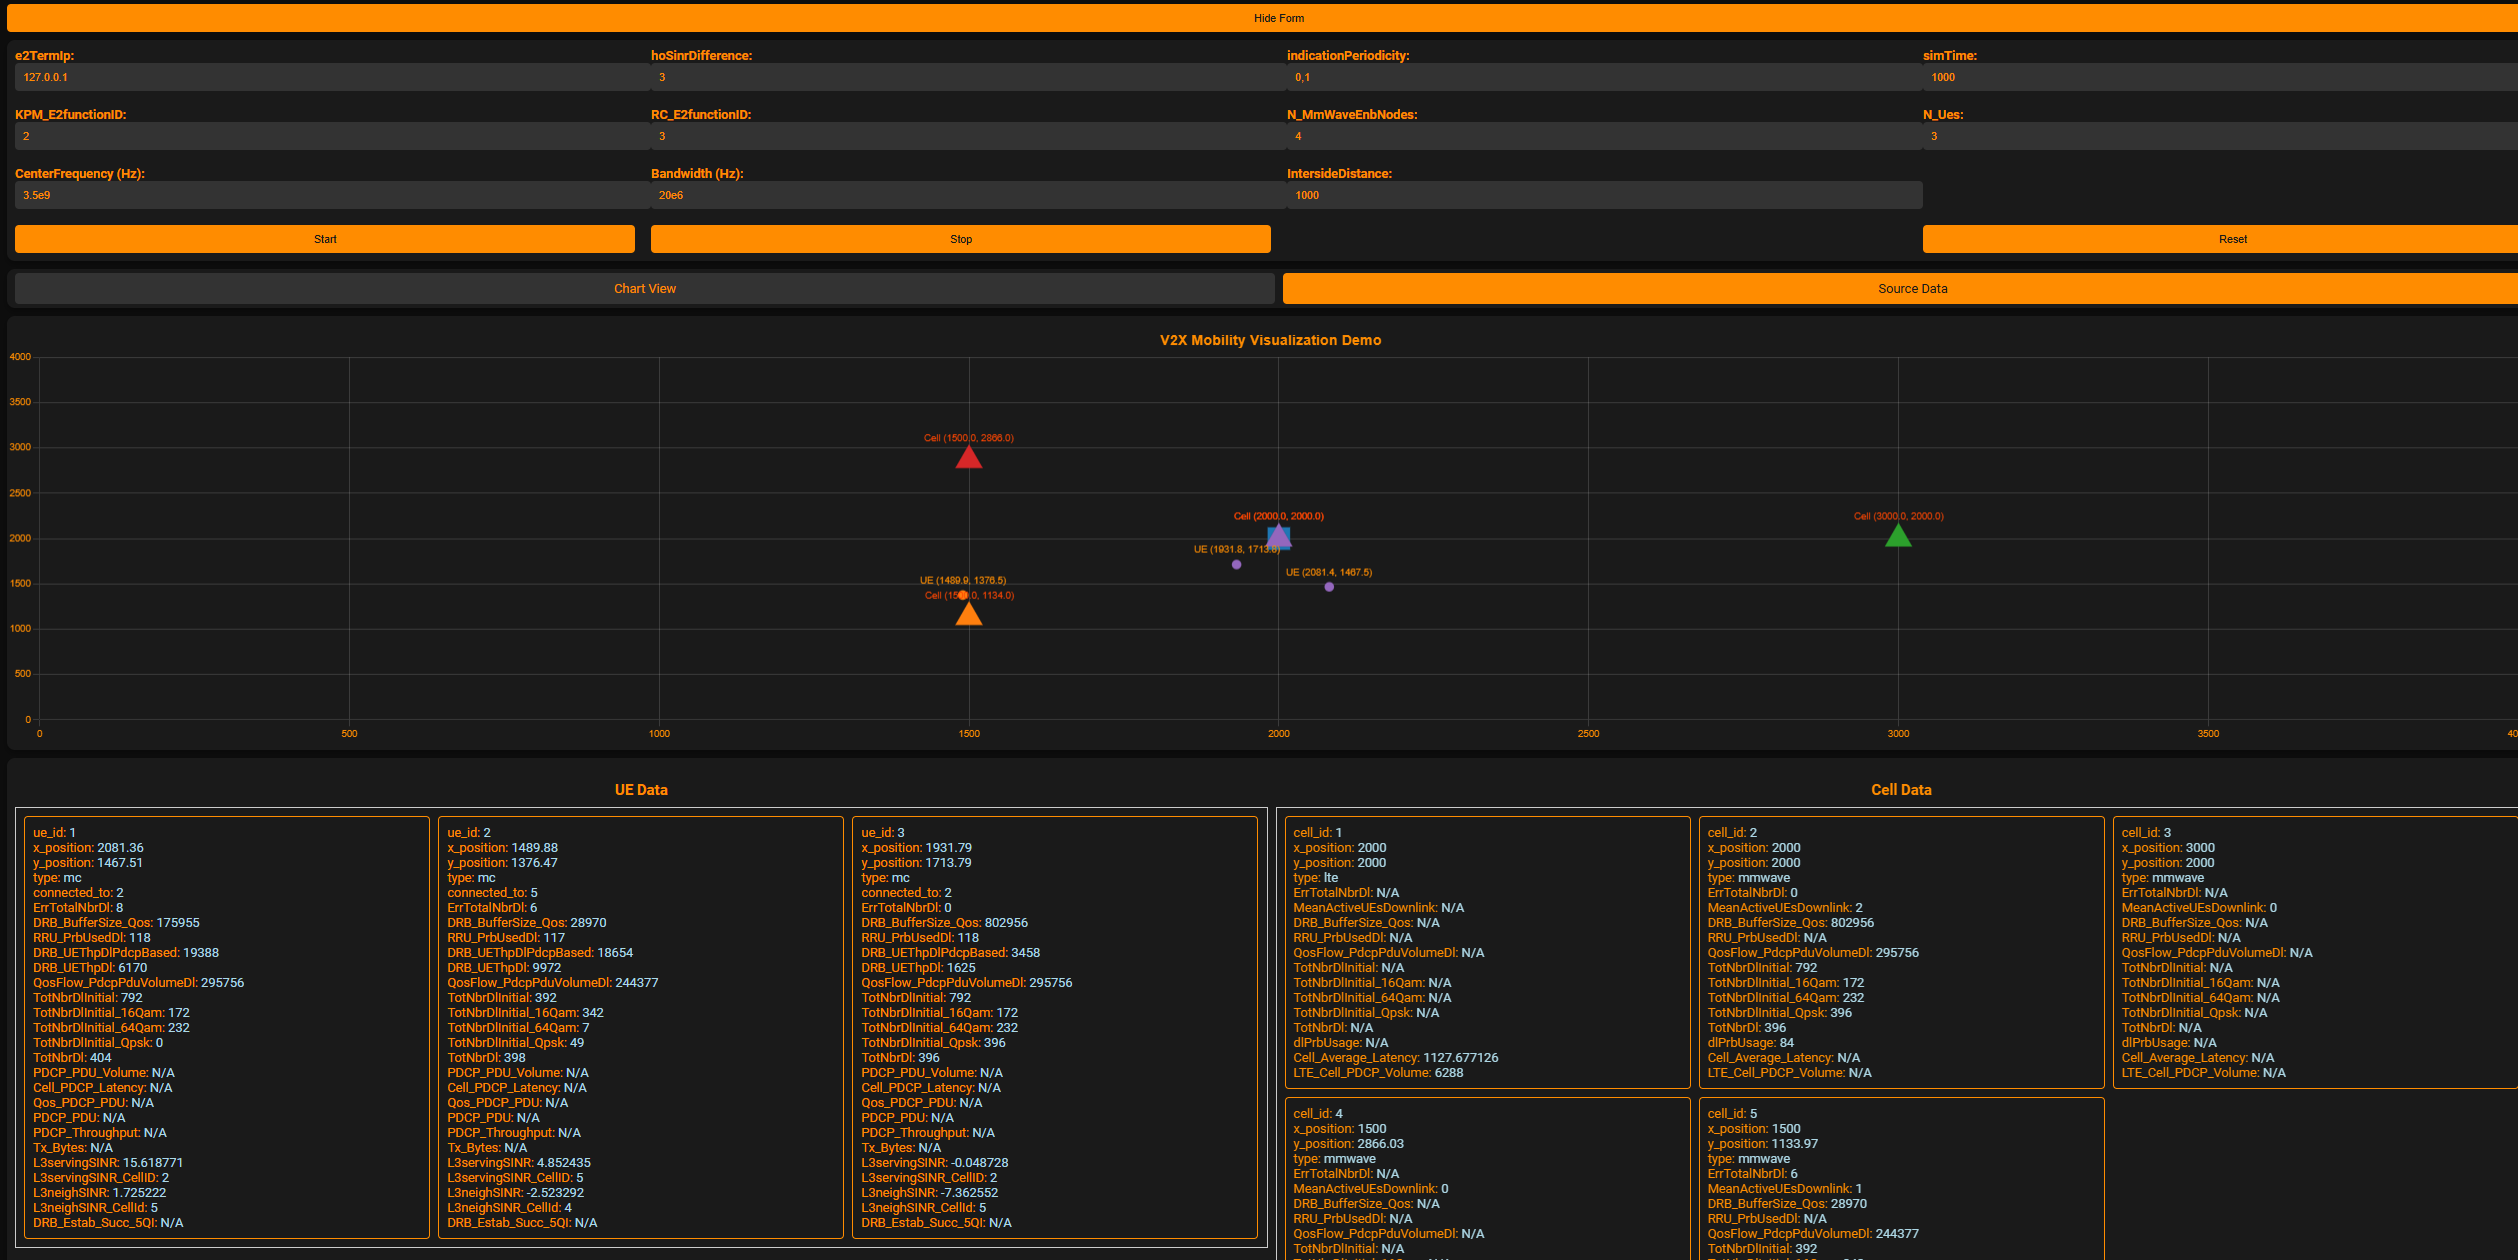
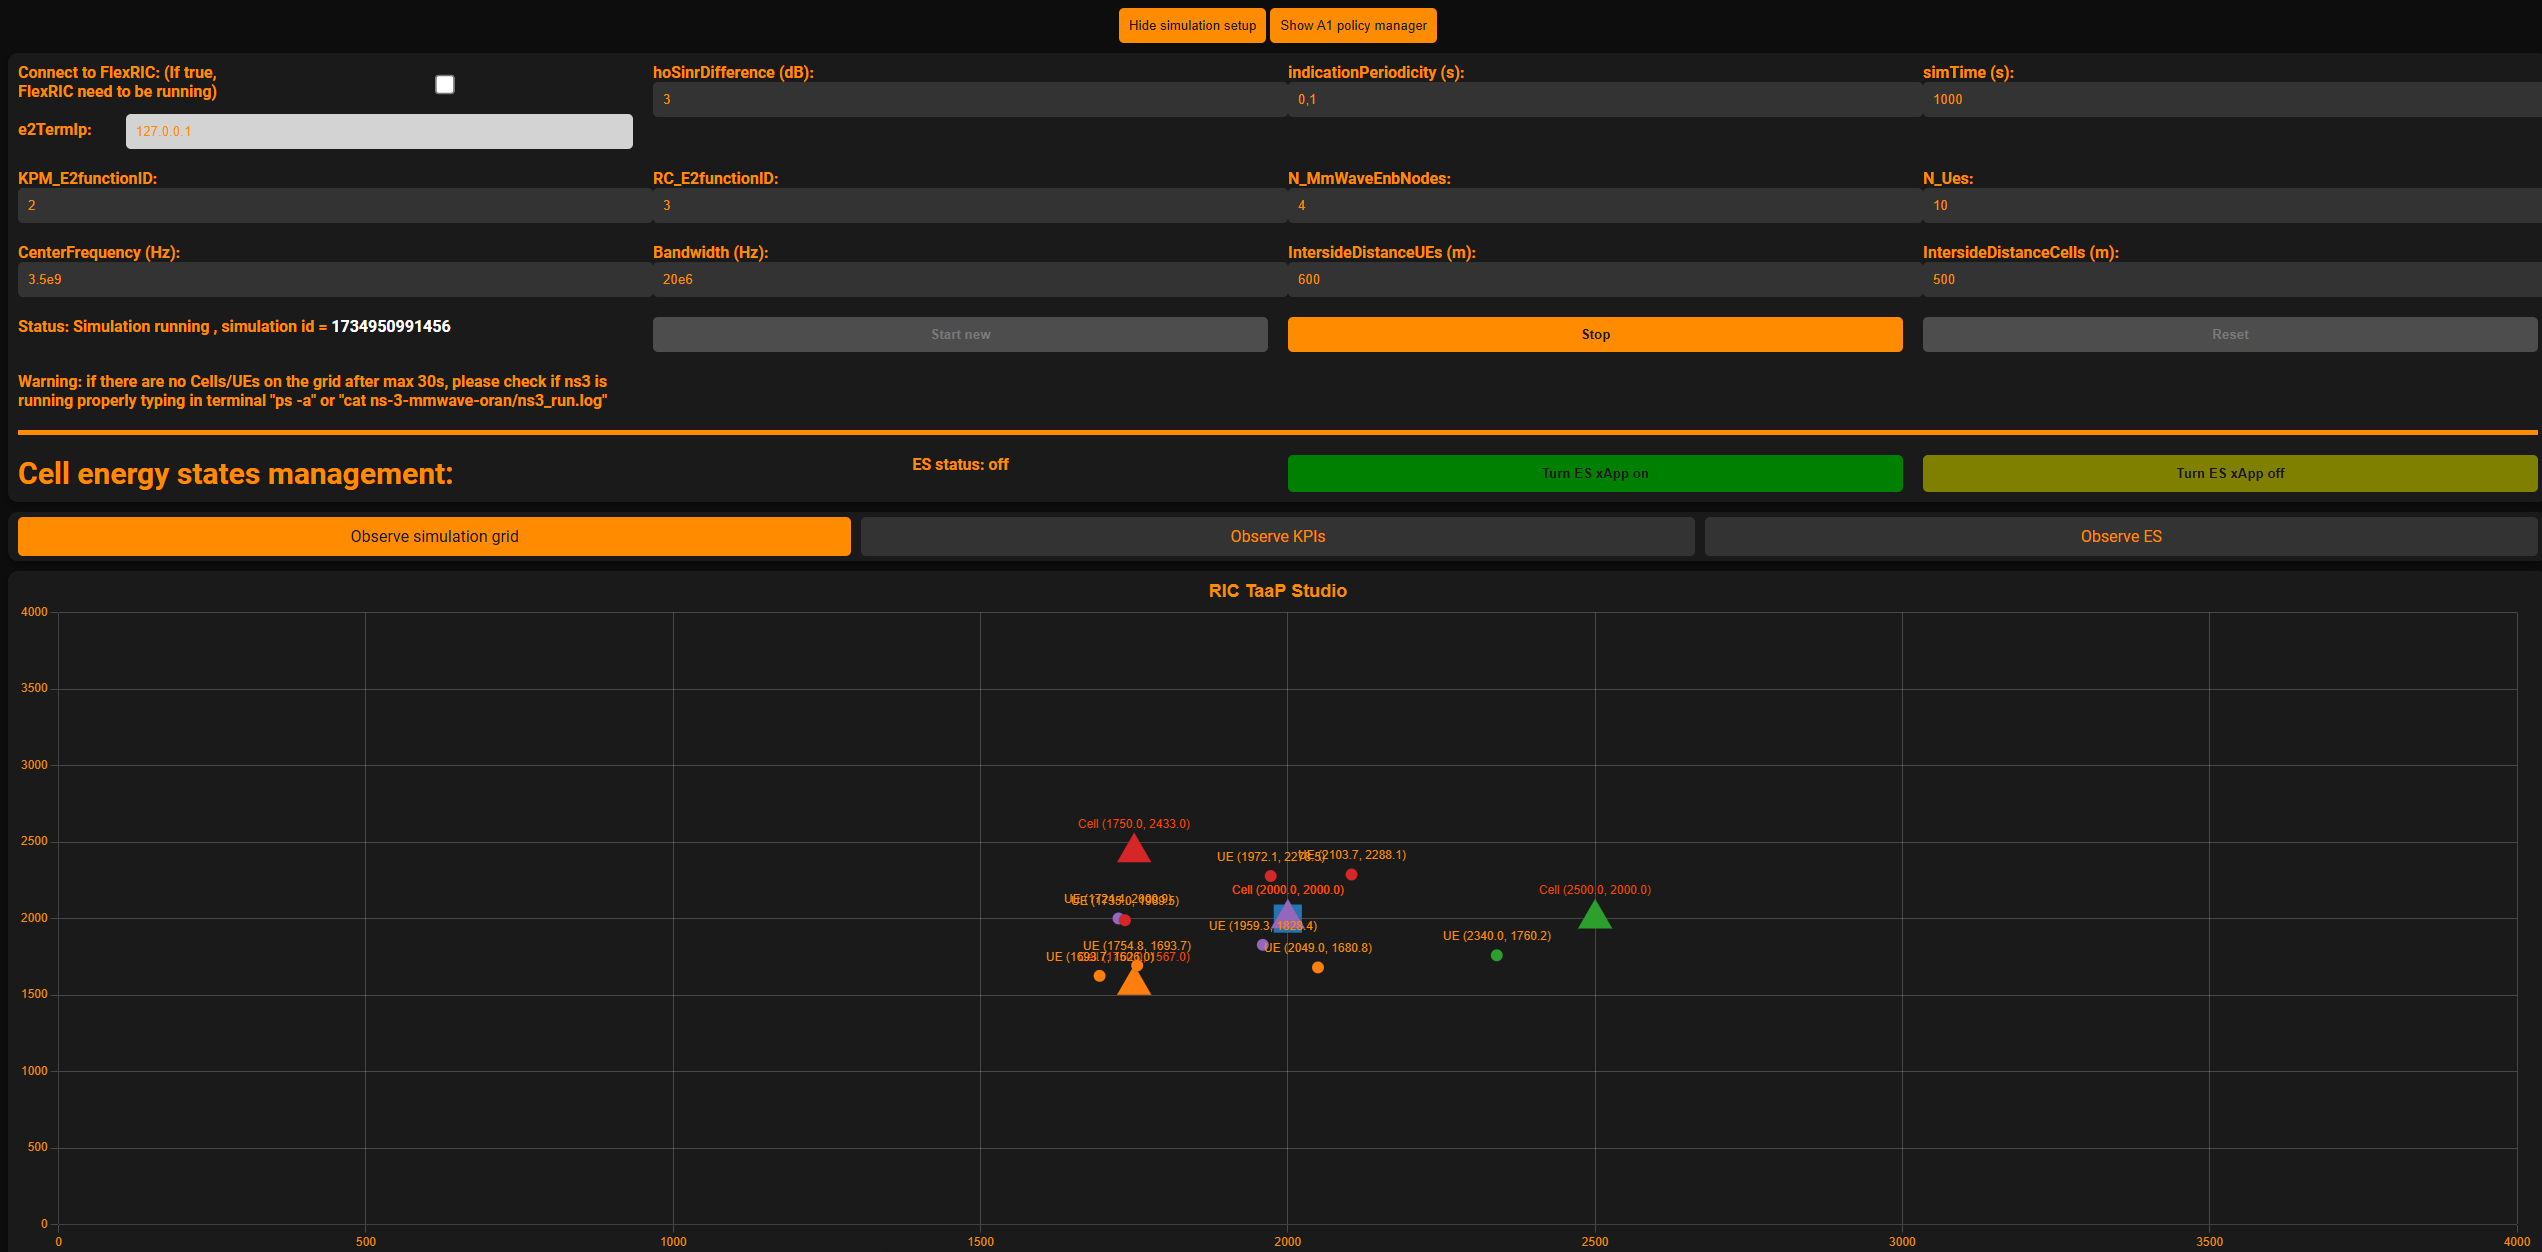
Update README with updated GUI informations (#25)
* Update README

- Change ns-O-RAN link
- Update OIE contribution to E2APv1.01
- Update OIE contribution over ns-O-RAN project figure fig/2.png

* Update README.md with xApp trigger from GUI

Update README.md with xApp trigger from GUI

* Delete fig/6.png

To upload new GUI overview

* New GUI overview

---------

diff --git a/README.md b/README.md
@@ -286,8 +286,9 @@ The handover xApp enables the initiation of control actions to make handover req
 1. First, you need to switch to [oie-ric-taap-xapps](https://gitlab.eurecom.fr/mosaic5g/flexric/-/tree/oie-ric-taap-xapps?ref_type=heads) branch in Flexric reprocitory
 2. Navigate to '/path/to/flexric/build/examples/ric/' and then run './nearRT-RIC'.
 3. Navigate to '/path/to/ns-3-mmwave-oran'  and then run './waf --run scratch/scenario-three.cc'
-4. Navigate to '/path/to/flexric./build/examples/xApp/c/ctrl/xapp_rc_handover_ctrl ' .and then run './xapp_rc_handover_ctrl'.
-5. Use The RIC-TaaP Studio, following Section 6.4.3, Points 1,2,3,4 and 6 or Grafana dashboard to observe the handover operations.
+4. Navigate to '/path/to/flexric/build/examples/xApp/c/ctrl/ ' and then run './xapp_rc_handover_ctrl'.
+5. To enable running xApp triggering from GUI, please copy two scripts from '/path/to/ns-3-mmwave-ora/GUI/FlexRIC xApp GUI trigger' to '/path/to/flexric" and then type "python3 xApp_trigger.py"
+6. Use The RIC-TaaP Studio, following Section 6.4.3, Points 1,2,3,4 and 6 or Grafana dashboard to observe the handover operations.
 The output of the handover operation is documented and can be reviewed in detail within this [document.](docs/handover_operation.pdf) .
 
 
@@ -303,7 +304,7 @@ The output of the handover operation is documented and can be reviewed in detail
 5. To see current KPIs, click 'Source Data'. 
  If FlexRIC connection is enabled, GUI KPIs will refresh only when xApp is running and Indication messages are exchanged. <br />
  If FlexRIC is disabled in GUI, GUI KPIs will refresh every 1s.
-6. To run  xapp_rc_handover_ctrl on GUI, at first you need to set the ric taap prameters as show in this figure [Click here to view the RIC TaaP Parameters](docs/RicTaap_prameters1.png) then Navigate to '/path/to/flexric./build/examples/xApp/c/ctrl/xapp_rc_handover_ctrl ' .and then run './xapp_rc_handover_ctrl' and wait some seconds.  
+6. To run  xapp_rc_handover_ctrl on GUI, at first you need to set the ric taap prameters as show in this figure [Click here to view the RIC TaaP Parameters](docs/RicTaap_prameters1.png) then Navigate to '/path/to/flexric/build/examples/xApp/c/ctrl/ ' .and then run './xapp_rc_handover_ctrl' and wait some seconds.  
 7. To stop simulation, click 'Stop' on 'Show Form' window.
 8. To close GUI if not needed, please use command 'docker-compose down' in 'ns-3-mmwave-oran/GUI' folder.
    
